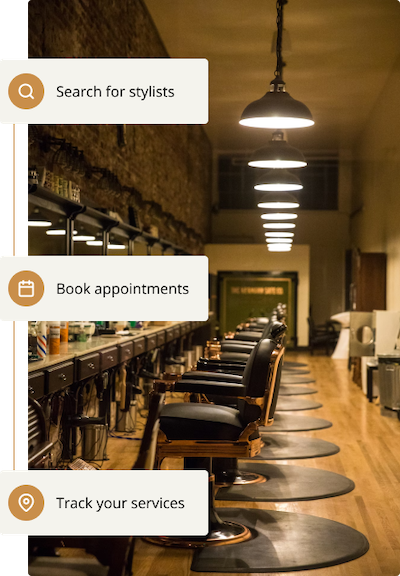
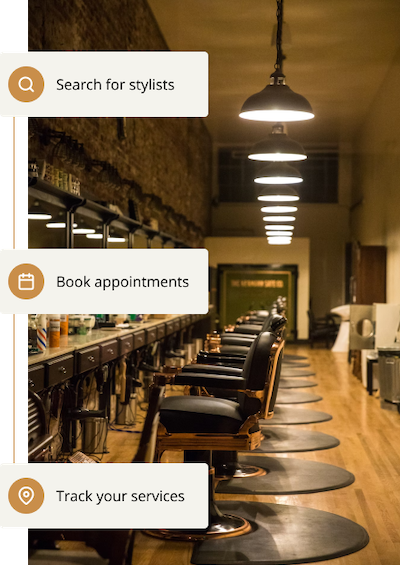
Use image hosting for hero images

diff --git a/app/home/hero.tsx b/app/home/hero.tsx
@@ -9,14 +9,6 @@ import cx from 'classnames'
 const Hero = () => {
   const [clientMode, setClientMode] = useState(true)
 
-  // toggles the clientMode state in every 15 seconds interval
-  // useEffect(() => {
-  //   const interval = setInterval(() => {
-  //     setClientMode(!clientMode)
-  //   }, 15000)
-  //   return () => clearInterval(interval)
-  // }, [clientMode])
-
   return (
     <div className="wrapper pt-32 pb-24 grid place-content-center">
       <div className="grid gap-12 lg:gap-0 lg:grid-cols-2 text-center lg:text-left">
@@ -53,9 +45,9 @@ const Hero = () => {
         <div className="grid place-content-center">
           {
             clientMode ? (
-              <Image src="/client-feature-highlight.png" width={400} height={576} alt="Feature highlight" />
+              <Image src="https://res.cloudinary.com/strich/image/upload/v1686706785/client-feature-highlight_fz1fp7.png" width={400} height={576} alt="Feature highlight" />
             ) : (
-              <Image src="/stylist-feature-highlight.png" width={400} height={576} alt="Feature highlight" />
+              <Image src="https://res.cloudinary.com/strich/image/upload/v1686706784/stylist-feature-highlight_s1fk7m.png" width={400} height={576} alt="Feature highlight" />
             )
           }
         </div>

diff --git a/next.config.js b/next.config.js
@@ -1,7 +1,7 @@
 /** @type {import('next').NextConfig} */
 const nextConfig = {
   images: {
-    domains: ["picsum.photos"],
+    domains: ["picsum.photos", "res.cloudinary.com"],
   },
 }
 
